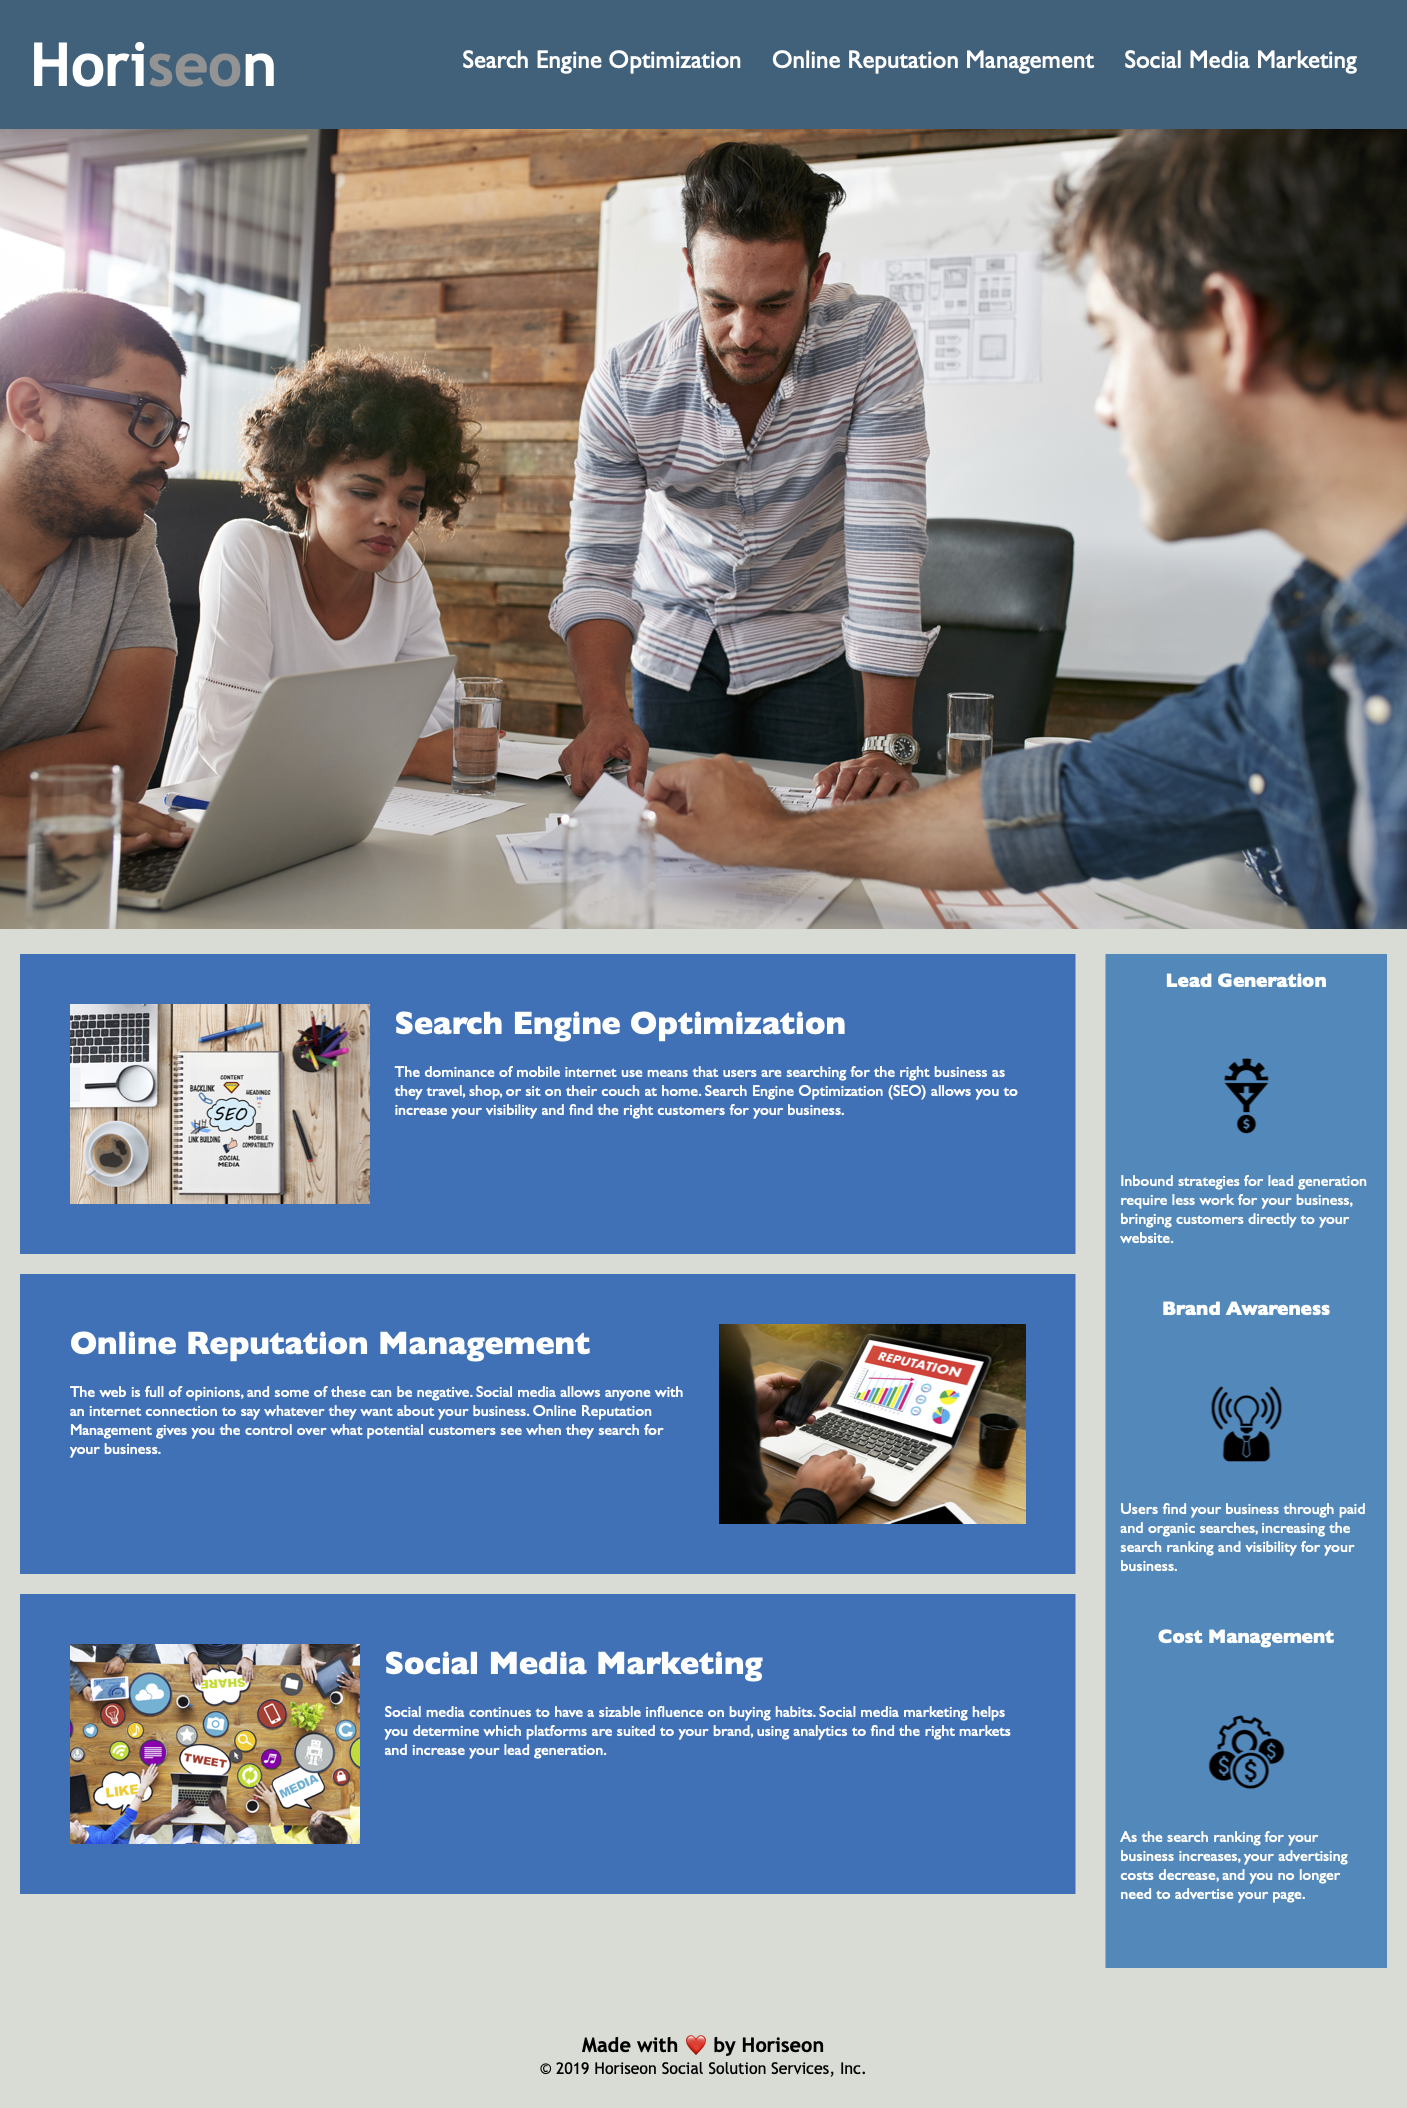
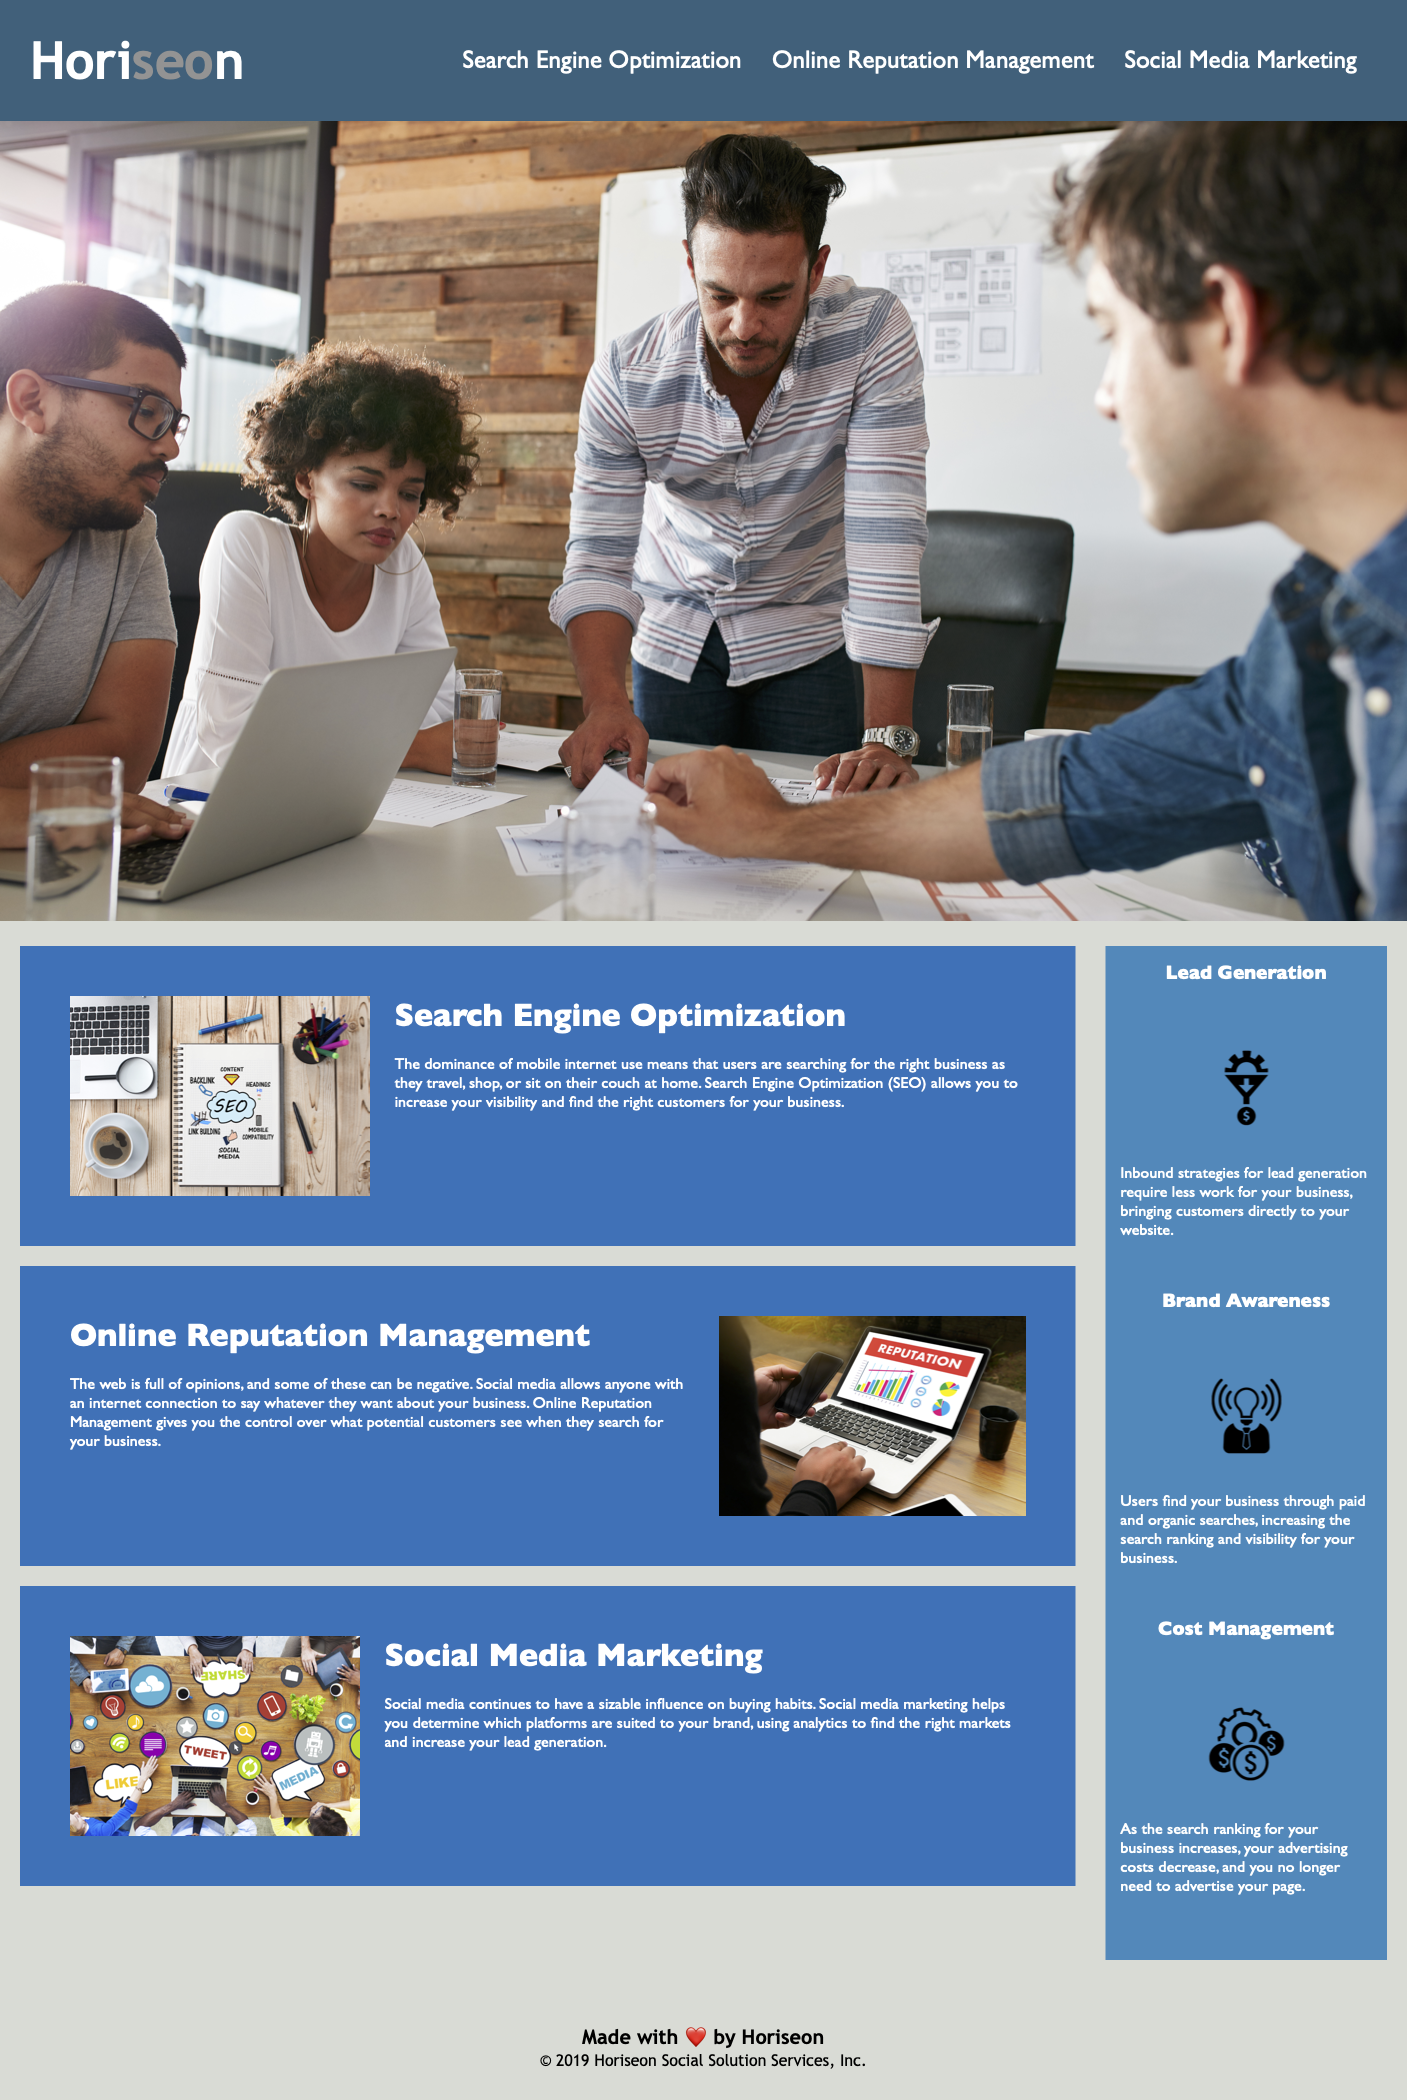
final updates before submission

diff --git a/assets/css/style.css b/assets/css/style.css
@@ -18,7 +18,7 @@ header {
 /* Increased font size of Horiseon header */
 header h1 {
     display: inline-block;
-    font-size: 60px;
+    font-size: 52px;
 }
 
 header h1 #seo {
